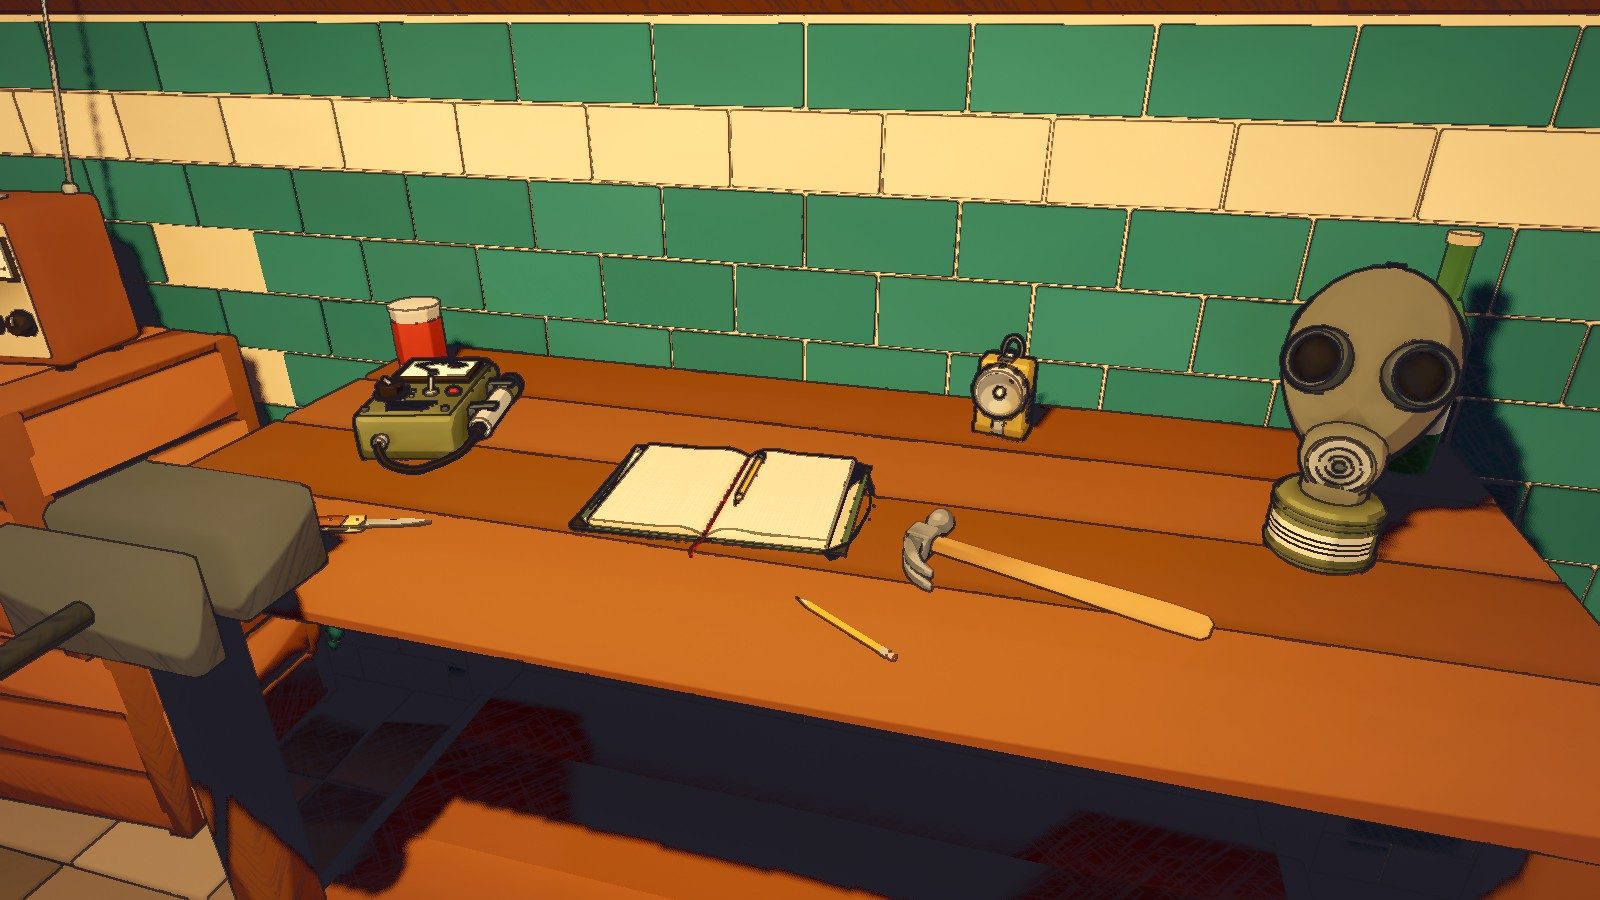
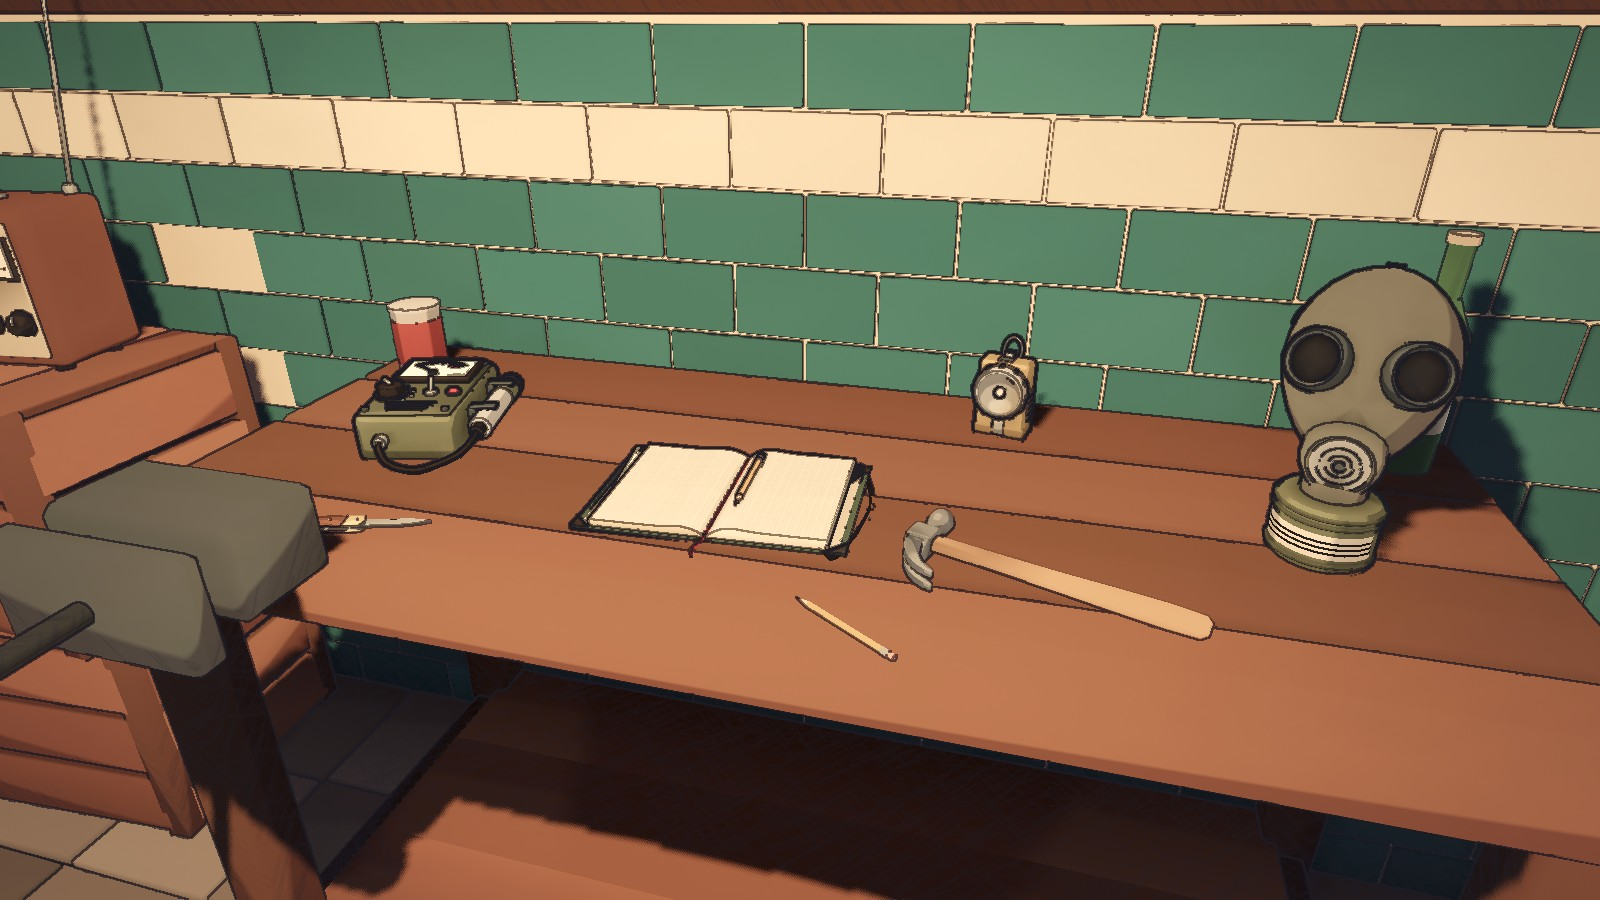
Estilo, revisión 3: menos chillón, sombras con luz, menos rayado y un cielo nuevo
- La sombra (propia y proyectada) recibe luz: el tono medio de la rampa,
  rebajado (tinta_sombra), en vez de solo la luz ambiente.
- Menos saturación en el depósito y la superficie; anochecer menos naranja.
- El tramado pesa la mitad y solo entra en lo muy oscuro.
- Cielo nuevo: un techo continuo de nubes de invierno, estirado por el
  viento, sin contorno de tinta ni tramado, fundido con la niebla.
- Capturas de la Fase 1 rehechas y guía de estilo al día.

Claude-Session: https://claude.ai/code/session_01VZZTedohBXPGfvNFgdbJjB

diff --git a/docs/ESTILO.md b/docs/ESTILO.md
@@ -6,6 +6,8 @@ Estado: **Fase 1 completa**, pendiente de tu aprobación final. Los valores de e
 
 **Revisión 2**: el exterior transmite la sensación; hay que mantener ese nivel en toda la ciudad. La noche, mucho más oscura (sin linterna casi no se ve). El anochecer, bien, con un ligero retoque: ahora es algo más marrón y menos saturado.
 
+**Revisión 3**: todo era demasiado chillón; las sombras, demasiado oscuras, con un rayado que las ensuciaba, y el cielo y las nubes no gustaban nada. Cambios: menos saturación (depósito 0,72; superficie 0,5) y un anochecer menos naranja; la sombra recibe luz propia (`tinta_sombra`: el tono medio de la rampa, rebajado), así que ya no se hunde en negro; el tramado pesa la mitad y solo entra en lo muy oscuro; y el cielo es nuevo: un techo continuo de nubes de invierno, estirado por el viento, sin contorno de tinta ni tramado, que se funde con la niebla en el horizonte.
+
 **Cierre de la Fase 1**:
 
 - Contorno de casco invertido para los objetos clave.
@@ -49,16 +51,17 @@ El contorno del post-proceso es fino y uniforme. Lo importante lleva además un 
 | `trazo_fps` | 4 | 8 | 8 | Cuántas veces por segundo se "redibuja" el contorno |
 | `trazo_amplitud` | 0,6 px | 1,0 px | 1,0 px | Cuánto tiembla el contorno |
 | `grosor` | 1,6 px | 2,2 px | 2,2 px | Grosor del contorno a 1080p |
-| `tramado` | 0,5 | 0,85 | 0,75 | Fuerza de las rayas de lápiz |
-| `tramado_umbral` | 0,07 | 0,30 | 0,10 | Luminancia por debajo de la cual empieza el tramado |
-| `relleno` | 0,003 | 0,018 | 0,002 | Luminancia por debajo de la cual todo es tinta |
-| `saturacion` | 1,0 | 0,62 | 0,7 | Saturación del color |
-| `contraste` | 1,05 | 1,18 | 1,1 | Contraste alrededor del gris medio |
+| `tramado` | 0,3 | 0,4 | 0,5 | Fuerza de las rayas de lápiz |
+| `tramado_umbral` | 0,07 | 0,16 | 0,10 | Luminancia por debajo de la cual empieza el tramado |
+| `relleno` | 0,003 | 0,008 | 0,002 | Luminancia por debajo de la cual todo es tinta |
+| `saturacion` | 0,72 | 0,5 | 0,55 | Saturación del color |
+| `contraste` | 1,0 | 1,08 | 1,1 | Contraste alrededor del gris medio |
 | `papel` | 0,3 | 0,4 | 0,35 | Cuánto se nota el grano del papel |
 | `grano` | 0,025 | 0,06 | 0,07 | Grano de película |
 | `vineta` | 0,3 | 0,5 | 0,45 | Oscurecimiento de los bordes |
 | `rampa` | 1 | 2 | 2 | Fila de `rampas.png` |
-| `tinte` | `#FFF7EB` | `#F7F2E6` | `#E6F2FF` | Tinte de la imagen |
+| `sombra` | 0,55 | 0,5 | 0,35 | Luz que queda en la sombra (propia y proyectada), en fracción del tono medio de la rampa |
+| `tinte` | `#FFFAF2` | `#F7F2E6` | `#E6F2FF` | Tinte de la imagen |
 | `negro` | 0 | 0 | 1 | Cuánto se oscurece el relleno de tinta; con 1 casi negro, y los contornos desaparecen donde no llega la luz |
 
 **Miedo** (`StyleDirector.fear`, de 0 a 1): el trazo tiembla hasta 3,5 veces más y más deprisa, el contorno engorda hasta 1,5 px, el color pierde saturación y el tramado invade la imagen desde los bordes. **Radiación** (`StyleDirector.radiation`): el grano crece. Con la opción de accesibilidad "trazo vivo reducido", el temblor baja al 30 % y no pasa de 4 fps.
@@ -89,7 +92,7 @@ El contorno del post-proceso es fino y uniforme. Lo importante lleva además un 
 | Óxido | `#7E4128` |
 | Corteza | `#34302C` |
 
-**Cielo** (`scripts/surface/atmosphere.gd`). Nunca es negro del todo, pero la noche es muy oscura: sin linterna solo se distinguen el cielo y las siluetas (revisión 2).
+**Cielo** (`assets/shaders/cielo.gdshader`, valores en `scripts/surface/atmosphere.gd`). Siempre encapotado: un techo continuo de nubes con vetas largas que estira el viento, pintado a pinceladas suaves y sin contorno de tinta (el dibujo se reserva para el mundo). El sol es un resplandor difuso detrás, al anochecer queda una franja de luz baja en el horizonte y abajo todo se funde con la niebla. Nunca es negro del todo, pero la noche es muy oscura: sin linterna solo se distinguen el cielo y las siluetas (revisión 2).
 
 - **Hora continua:** `Atmosphere.apply_hour(entorno, sol, hora)` interpola entre los momentos de referencia.
 
@@ -107,7 +110,7 @@ El contorno del post-proceso es fino y uniforme. Lo importante lleva además un 
 | Momento | Cénit | Horizonte | Nubes (claro / oscuro) | Luz |
 |---|---|---|---|---|
 | Día | `#6E7273` | `#9A968C` | `#AEABA2` / `#6A6967` | Sol velado `#F2E6CC` |
-| Anochecer | `#2E3040` | `#B47A55` | `#C58560` / `#3E3541` | Sol bajo `#FFA06A` |
+| Anochecer | `#2E3040` | `#8C7466` | `#9A8174` / `#3F3C45` | Sol bajo `#E8AA82` |
 | Noche | `#0A0D14` | `#161B25` | `#2A3142` / `#0E1118` | Luna muy débil `#7D8DB5` |
 
 Regla: el rojo (`#C8323C`) se reserva para lo importante.

diff --git a/README.md b/README.md
@@ -984,7 +984,7 @@ Cada fase tiene un **objetivo**, unas **tareas** (con un ID para seguirlas en la
 
 **Entregable**: dos dioramas a calidad final y la guía de estilo con los valores fijados.
 **Criterio de salida**: **tú apruebas el estilo**. Si no convence, se itera aquí; nunca se produce contenido sobre un estilo sin aprobar.
-**Estado**: 🟨 todas las tareas hechas; falta tu aprobación final del estilo. Revisión 1: aprobados el contorno, el tramado y los colores cálidos del depósito; el exterior estaba demasiado blanco y pálido, sin ambiente posapocalíptico, y el cielo no podía ser negro. Revisión 2: el exterior ya transmite la sensación; la noche, mucho más oscura, y el anochecer, algo más contenido. Cierre: contorno de casco, huellas y ventisca, el kit completo de modelos (con el equipo y los muebles de la rama de modelos), el panel de depuración, las piezas de interfaz, las tipografías, el vídeo y el plano de la ciudad ([docs/ESTILO.md](docs/ESTILO.md), [docs/CIUDAD.md](docs/CIUDAD.md)).
+**Estado**: 🟨 todas las tareas hechas; falta tu aprobación final del estilo. Revisión 1: aprobados el contorno, el tramado y los colores cálidos del depósito; el exterior estaba demasiado blanco y pálido, sin ambiente posapocalíptico, y el cielo no podía ser negro. Revisión 2: el exterior ya transmite la sensación; la noche, mucho más oscura, y el anochecer, algo más contenido. Revisión 3: menos chillón (menos saturación), sombras con luz en vez de negras, el rayado mucho más suave y un cielo nuevo, encapotado y sin manchas de tinta. Cierre: contorno de casco, huellas y ventisca, el kit completo de modelos (con el equipo y los muebles de la rama de modelos), el panel de depuración, las piezas de interfaz, las tipografías, el vídeo y el plano de la ciudad ([docs/ESTILO.md](docs/ESTILO.md), [docs/CIUDAD.md](docs/CIUDAD.md)).
 
 ### Fase 2: El Depósito jugable · tamaño L
 
